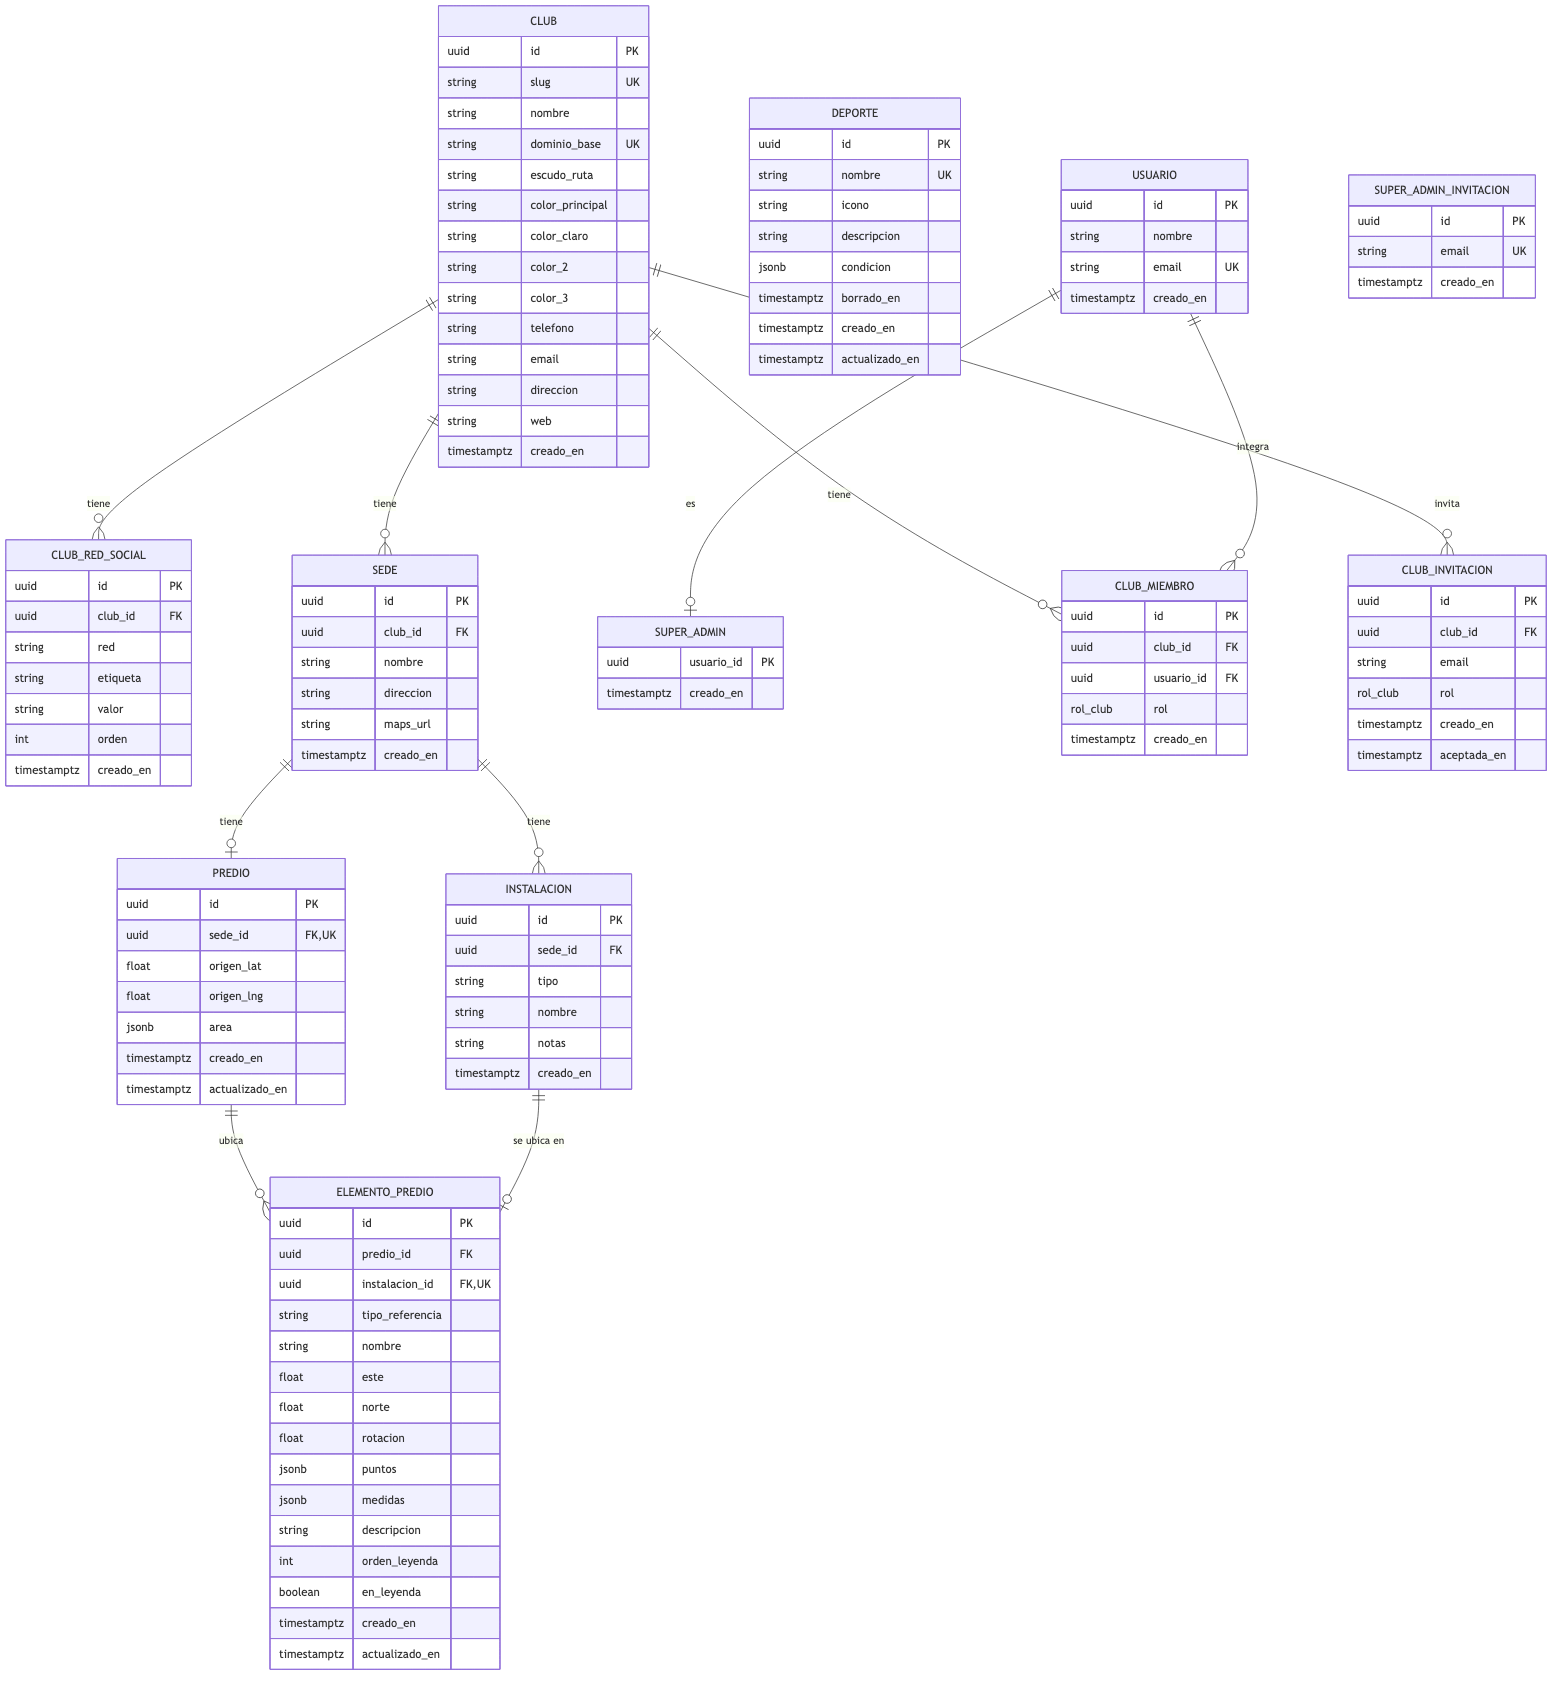
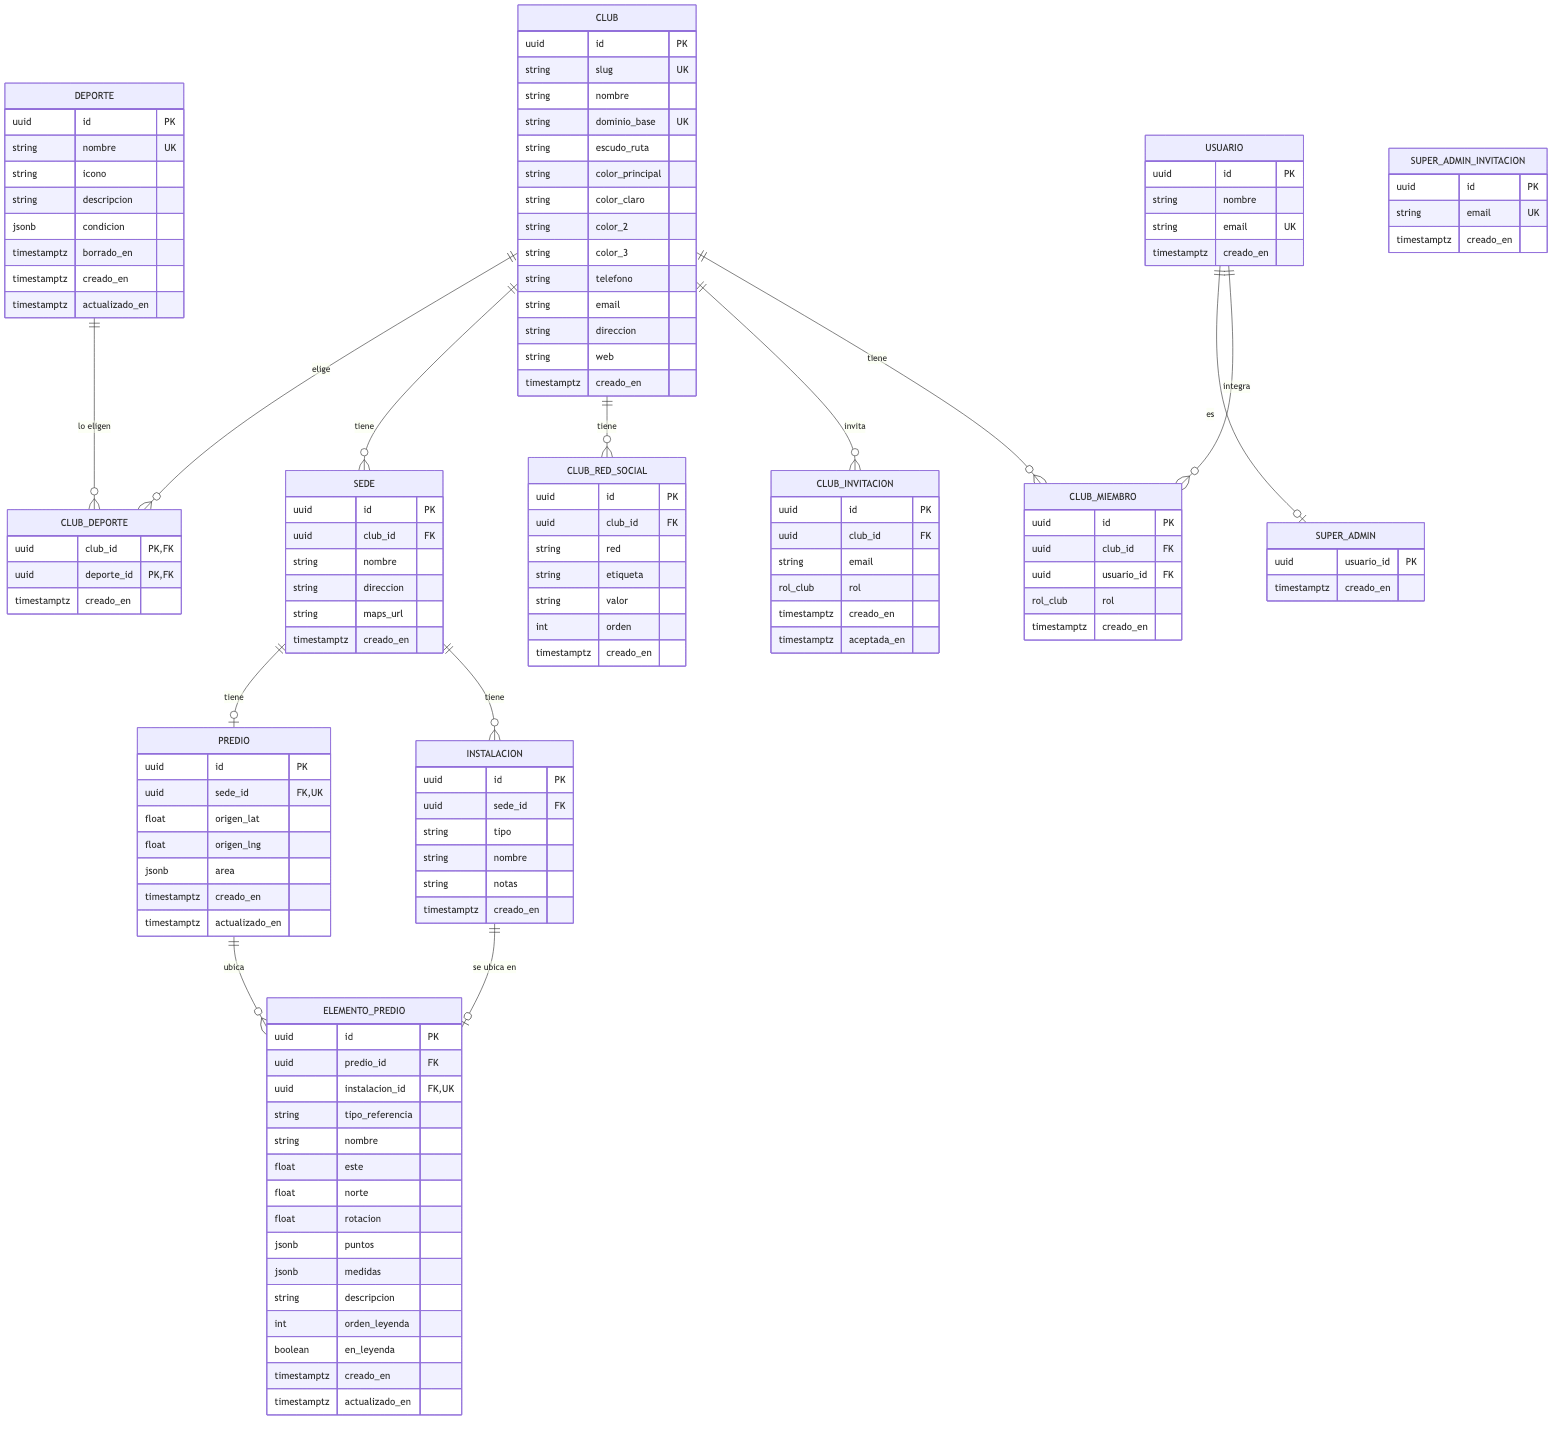
Deportes del club: tabla club_deporte con RLS, tests y DER (#75)
El Admin del club y el Super Admin suman, quitan y leen los deportes del
club. Un deporte borrado del catálogo no se suma, pero el club que ya lo
tenía conserva la fila.

diff --git a/src/datos/tipos.ts b/src/datos/tipos.ts
@@ -201,6 +201,39 @@ export type Database = {
           },
         ];
       };
+      club_deporte: {
+        Row: {
+          club_id: string;
+          deporte_id: string;
+          creado_en: string;
+        };
+        Insert: {
+          club_id: string;
+          deporte_id: string;
+          creado_en?: string;
+        };
+        Update: {
+          club_id?: string;
+          deporte_id?: string;
+          creado_en?: string;
+        };
+        Relationships: [
+          {
+            foreignKeyName: "club_deporte_club_id_fkey";
+            columns: ["club_id"];
+            isOneToOne: false;
+            referencedRelation: "club";
+            referencedColumns: ["id"];
+          },
+          {
+            foreignKeyName: "club_deporte_deporte_id_fkey";
+            columns: ["deporte_id"];
+            isOneToOne: false;
+            referencedRelation: "deporte";
+            referencedColumns: ["id"];
+          },
+        ];
+      };
       club_red_social: {
         Row: {
           id: string;
